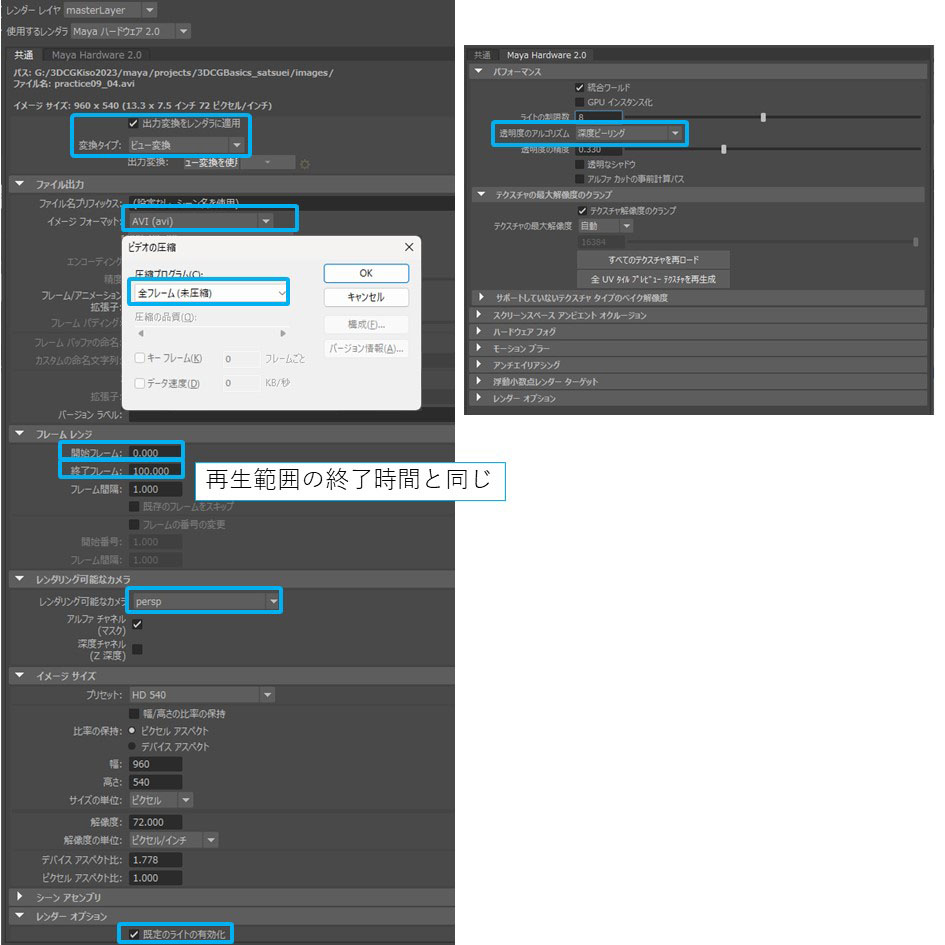
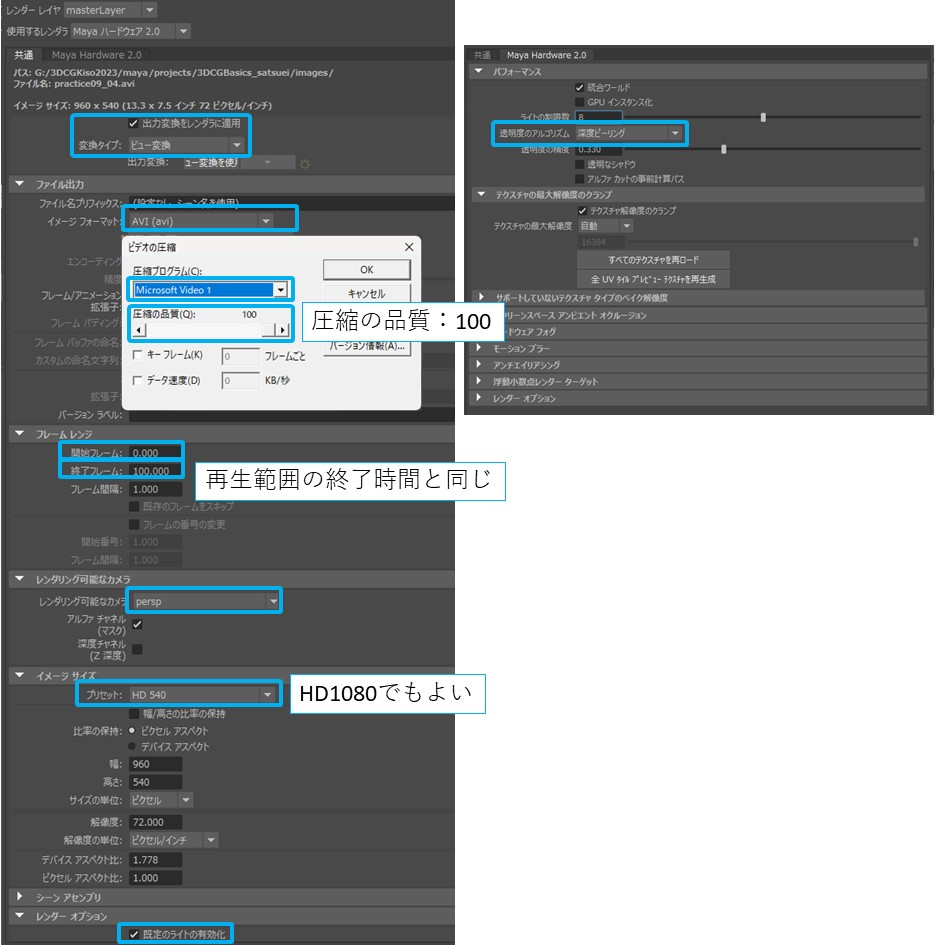
rende-settei

diff --git a/3DCG_Basics/3DCGBasics.html b/3DCG_Basics/3DCGBasics.html
@@ -655,7 +655,7 @@ header, .context-menu, .megamenu-content, footer{
 <img src="images/shelf_rigging_create_joint.png" referrerpolicy="no-referrer" alt="shelf_rigging_create_joint"></p></li><li><p><span>サイドビュー上でルートジョイントをクリックする．</span></p></li><li><p><span>アゴのジョイントを配置したい場所をクリックする．</span></p></li></ol><p><img src="images/add_joint_jaw.gif" referrerpolicy="no-referrer" alt="add_joint_jaw"></p><h4 id='アゴのジョイントをリネームする'><span>アゴのジョイントをリネームする．</span></h4><p><span>アウトライナから，ルートジョイントの下に生成されたアゴジョイントを分かりやすい名前に変更する．</span></p><p><img src="images/jaw_joint_rename.jpg" referrerpolicy="no-referrer" alt="jaw_joint_rename"></p><h3 id='アゴのジョイントをインフルエンスに追加する'><span>アゴのジョイントをインフルエンスに追加する．</span></h3><p><span>アゴのジョイントはまだポリゴンオブジェクトに影響を与えていない．</span>
 <span>インフルエンスの追加を行う必要がある．</span></p><ol start='' ><li><p><span>アウトライナから，アゴのジョイントと体のポリゴンオブジェクトを選択する．</span></p><p><img src="images/select_jaw_joint_body_plygon.png" referrerpolicy="no-referrer" alt="select_jaw_joint_body_plygon"></p></li><li><p><span>メインメニューから，スキン &gt; 影響を編集 &gt; インフルエンスの追加</span></p><p><img src="images/add_influence.jpg" referrerpolicy="no-referrer" alt="add_influence"></p></li></ol><h3 id='アゴジョイントのウェイトを編集する'><span>アゴジョイントのウェイトを編集する．</span></h3><ol start='' ><li><p><span>体のポリゴンオブジェクトを選択する．</span></p></li><li><p><span>ウェイトペイントツール設定から，インフルエンス &gt; アゴジョイントをクリックする．</span></p><p><img src="images/select_influence_jaw.jpg" referrerpolicy="no-referrer" alt="select_influence_jaw"></p></li><li><p><span>口の中等，漏れの無いように適切にウェイトペイントを行う．</span></p><p><span>ミラーも実行する．</span></p></li></ol><p><img src="images/jaw_weight_sakurei.png" referrerpolicy="no-referrer" alt="jaw_weight_sakurei"></p><p><img src="images/jaw_weight_preview.gif" referrerpolicy="no-referrer" alt="jaw_weight_preview"></p><h2 id='演習５魚のジョイントを追加胸ヒレ）'><span>演習５：魚のジョイントを追加（胸ヒレ）</span></h2><h3 id='胸ヒレのジョイントを追加する'><span>胸ヒレのジョイントを追加する．</span></h3><h4 id='左胸ヒレ用のジョイントチェーンを追加する'><span>左胸ヒレ用のジョイントチェーンを追加する．</span></h4><ol start='' ><li><p><span>いずれかの背骨ジョイントから繋げてジョイント作成を開始する．</span></p></li><li><p><span>２つのジョイントからなるジョイントチェーンを作成する．</span></p><ul><li><p><span>ヒレの付け根付近のジョイント</span></p><ul><li><p><span>ヒレの先端付近のジョイント</span></p></li></ul></li></ul><p><img src="images/chest_fin_joints.jpg" referrerpolicy="no-referrer" alt="chest_fin_joints"></p></li></ol><h4 id='左胸ヒレジョイントをリネームする'><span>左胸ヒレジョイントをリネームする．</span></h4><p><span>アウトライナから，生成された胸ヒレジョイントを分かりやすい名前に変更する．</span></p><p><img src="images/fin_chest_l_joint_rename.jpg" referrerpolicy="no-referrer" alt="fin_chest_l_joint_rename"></p><h3 id='胸ヒレジョイントの向きを調整する'><span>胸ヒレジョイントの向きを調整する．</span></h3><h4 id='ジョイントx軸を子へ向ける'><span>ジョイントX軸を子へ向ける．</span></h4><ol start='' ><li><p><span>ヒレの付け根のジョイントを選択する．</span></p></li><li><p><span>メインメニューから，スケルトン &gt; ジョイントの方向付け オプションをクリックする．</span></p><p><img src="images/joint_dir_set_option_open.jpg" referrerpolicy="no-referrer" alt="joint_dir_set_option_open"></p></li><li><p><span>以下のように設定する．</span></p><p><img src="images/joint_dir_set_option.png" referrerpolicy="no-referrer" alt="joint_dir_set_option"></p></li><li><p><span>ジョイントのX軸が子のジョイントの方向を向く．</span></p><p><img src="images/joint_dir_set_view.jpg" referrerpolicy="no-referrer" alt="joint_dir_set_view"></p></li></ol><h4 id='y軸ハンドルで制御できるよう回転を調整する'><span>Y軸ハンドルで制御できるよう回転を調整する．</span></h4><ul><li><p><span>Y軸ハンドル（緑色）１軸のみでアニメーションをさせる予定</span></p></li><li><p><span>Y軸ハンドルでアニメーションさせたい回転ができるようにする．</span></p></li><li><p><span>回転ツールを使い，ジョイントを回転させて調整する．</span></p></li><li><p><span>下図は調整後のY軸ハンドルでボーンを回転させた例</span></p><p><img src="images/chest_joint_test.gif" referrerpolicy="no-referrer" alt="chest_joint_test"></p></li></ul><h4 id='胸ヒレの付け根ジョイントのトランスフォームをフリーズする'><span>胸ヒレの付け根ジョイントのトランスフォームをフリーズする．</span></h4><p><span>ジョイントのトランスフォームのフリーズを行うと，回転のハンドルの角度はそのまま回転を0にすることができる．</span>
 <span>詳しくは，ジョイントの向きに値が流れる．</span></p><p><a href ="#transform_freeze"><span>トランスフォームのフリーズ</span></a></p><h3 id='胸ヒレジョイントをミラーする'><span>胸ヒレジョイントをミラーする．</span></h3><p><span>もう片方のジョイントをミラーで作成する．</span></p><ol start='' ><li><p><span>作成済み胸ヒレジョイントを選択する．</span></p></li><li><p><span>メインメニューから，スケルトン &gt; ジョイントのミラー オプション をクリックする．</span></p><p><span>初回のみ</span></p><p><img src="images/joint_mirror_option_open.jpg" referrerpolicy="no-referrer" alt="joint_mirror_option_open"></p></li><li><p><span>ジョイントのミラー オプション</span></p><p><span>ミラー平面：YZ</span></p><p><img src="images/joint_mirror_option.jpg" referrerpolicy="no-referrer" alt="joint_mirror_option"></p></li><li><p><span>ミラーをクリックする．</span></p></li><li><p><span>新たにジョイントが生成される．</span></p><p><span>こちらもリネームしてジョイントに名前を付ける．</span></p><p><img src="images/fin_chest_mirrored.png" referrerpolicy="no-referrer" alt="fin_chest_mirrored"></p></li></ol><h3 id='胸ヒレのジョイントをインフルエンスに追加する'><span>胸ヒレのジョイントをインフルエンスに追加する．</span></h3><p><span>アゴのジョイントと同様に，胸ヒレジョイントもインフルエンスの追加を行う必要がある．</span></p><p><span>左右のヒレを別々に分けて行う必要がある．</span></p><ol start='' ><li><p><span>アウトライナから，胸ヒレジョイント（の片方）と対応するヒレのポリゴンオブジェクトを選択する．</span></p><p><img src="images/select_fin_chest_l_joint_polygon.png" referrerpolicy="no-referrer" alt="select_fin_chest_l_joint_polygon"></p></li><li><p><span>メインメニューから，スキン &gt; 影響を編集 &gt; インフルエンスの追加</span></p><p><img src="images/add_influence.jpg" referrerpolicy="no-referrer" alt="add_influence"></p></li><li><p><span>もう片方の胸ヒレジョイントも以上と同様にインフルエンスの追加を行う．</span></p></li></ol><h3 id='胸ヒレのウェイトを編集する'><span>胸ヒレのウェイトを編集する．</span></h3><ul><li><p><span>基本的にはウェイトペイントは白で塗りつぶしでよい．</span></p></li><li><p><span>胸ヒレに複数のジョイントをバインドしたい場合は体と同様に複数ジョイントのウェイトを設定する必要がある．</span></p></li></ul><p><img src="images/fin_chest_weight_paint_fill.jpg" referrerpolicy="no-referrer" alt="fin_chest_weight_paint_fill"></p><h3 id='自主的にジョイントを増やしたい場合'><span>自主的にジョイントを増やしたい場合</span></h3><p><span>自信と時間の余裕があれば，本授業で行った範囲以外の部位を追加で動かしてもよい．</span></p><p><span>その場合，アゴや胸ヒレと同様に背骨のいずれかのジョイントを起点にジョイントを追加すること．</span></p><h1 id='第９回魚のループアニメーション'><span>第９回：魚のループアニメーション</span></h1><h2 id='演習１背骨の１つのジョイントの回転'><span>演習１：背骨の１つのジョイントの回転</span></h2><p><img src="images/loopanim_tail_1spain_start.gif" referrerpolicy="no-referrer" alt="loopanim_tail_1spain_start"></p><h3 id='アニメーションの下準備'><span>アニメーションの下準備</span></h3><h4 id='アニメーション時間を設定する-1'><span>アニメーション時間を設定する．</span></h4><ol start='' ><li><p><span>アニメーション時間（尾を左右に一往復させる時間）を決める．</span></p><p><span>魚によって変わる．ここでは150フレーム（5秒）とする．</span></p></li><li><p><span>レンジスライダから，</span></p><ul><li><p><span>アニメーション開始時間，再生範囲の開始時間に「0」を入力する．</span></p></li><li><p><span>再生範囲の終了時間，アニメーション終了時間に「150」を入力する．</span></p></li></ul><p><img src="images/time_slider_0_150.jpg" referrerpolicy="no-referrer" alt="time_slider_0_150"></p></li></ol><h3 id='回転0のキーを打つ'><span>回転0のキーを打つ．</span></h3><h4 id='キーフレームの打ち方'><span>キーフレームの打ち方</span></h4><p><span>オブジェクトを選択後に以下の操作を行う．</span></p><ol start='' ><li><p><span>タイムスライダをキーを打つフレームに動かす．</span></p></li><li><p><span>回転ツールでオブジェクトを回転する．</span></p></li><li><p><span>チャンネルボックスから，キーを打つトランスフォーム（移動／回転／スケール）を右クリックする．</span></p></li><li><p><span>選択項目のキー設定 をクリックする．</span></p><p><img src="images/fish_loopanim_bend_set_key.png" referrerpolicy="no-referrer" alt="fish_loopanim_bend_set_key"></p></li><li><p><span>キーを打つと下図のように赤いマーカーが表示される．</span></p><p><img src="images/keysrame_marker.jpg" referrerpolicy="no-referrer" alt="keysrame_marker"></p></li></ol><h4 id='回転無しで３つのキーフレームを打つ'><span>回転無しで３つのキーフレームを打つ．</span></h4><ol start='' ><li><p><span>アニメーションさせる最初のジョイントを選択する．</span></p><p><span>階層の上から下へキーを打っていくため，動かす予定の最上層のジョイントを選択する．</span></p><p><img src="images/anim_first_spine.jpg" referrerpolicy="no-referrer" alt="anim_first_spine"></p></li><li><p><span>回転ツールは使わず，３つのキーを打つ．</span></p><ul><li><p><span>フレーム番号：0（最初のフレーム）</span></p></li><li><p><span>フレーム番号：75（中間）</span></p></li><li><p><span>フレーム番号：0（最後のフレーム）</span></p></li></ul><p><img src="images/keyframes_rot0.jpg" referrerpolicy="no-referrer" alt="keyframes_rot0"></p></li></ol><h3 id='回転後のキーを打つ'><span>回転後のキーを打つ．</span></h3><p><span>背骨ジョイントを最大に曲げた状態用の２つのキーを打つ．</span>
-<span>回転ツールで大まかに回転し，端数を除いて整数値を入力するとよい．</span></p><ol start='' ><li><p><span>フレーム番号：37（1/4の箇所）</span></p><p><span>回転Y：11（任意の値）</span></p></li><li><p><span>フレーム番号：75（3/4の箇所）</span></p><p><span>回転Y：-11（任意の値のマイナス値）</span></p></li></ol><p><img src="images/keyframes_rot_max_min.jpg" referrerpolicy="no-referrer" alt="keyframes_rot_max_min"></p><h4 id='アニメーションキーの削除'><span>アニメーションキーの削除</span></h4><p><span>キーを削除したい場合は以下の方法で削除する．</span></p><p><span>まず，キーを削除するオブジェクトを選択する．</span></p><ol start='' ><li><p><span>タイムスライダをキーのあるフレームへ合わせ，右クリックする．</span></p></li><li><p><span>削除 をクリックする．</span></p></li></ol><p><img src="images/fish_loopanim_bend_delete_key.png" referrerpolicy="no-referrer" alt="fish_loopanim_bend_delete_key"></p><h2 id='演習２アニメーションを滑らかにループさせる'><span>演習２：アニメーションを滑らかにループさせる．</span></h2><p><img src="images/loopanim_tail_1spain_smooth.gif" referrerpolicy="no-referrer" alt="loopanim_tail_1spain_smooth"></p><h3 id='グラフエディタを開く'><span>グラフエディタを開く．</span></h3><p><span>メインメニューから，ウィンドウ &gt; アニメーション エディタ &gt; グラフエディタ</span></p><p><img src="images/graph_editor_open.jpg" referrerpolicy="no-referrer" alt="graph_editor_open"></p><h4 id='グラフエディタ'><span>グラフエディタ</span></h4><ul><li><p><span>アニメーションを詳細に編集できる．</span></p></li><li><p><span>キーが設定されたオブジェクトを選択する必要がある．</span></p></li></ul><p><img src="images/graph_editer.png" referrerpolicy="no-referrer" alt="graph_editer"></p><h4 id='シェルフへアイコンを追加する'><span>シェルフへアイコンを追加する．</span></h4><p><code>Ctrl</code><span> + </span><code>Shift</code><span> を押しながら左クリックする．</span></p><h3 id='グラフの接線を編集する'><span>グラフの接線を編集する．</span></h3><ol start='' ><li><p><span>演習１でキーを打った背骨ジョイントを選択する．</span></p></li><li><p><span>グラフエディタを開く．</span></p></li><li><p><span>キー（点）をクリックして接線ハンドルを表示する．</span></p></li><li><p><span>接線ハンドルをドラッグし，滑らかな（ほぼ）サインカーブにする．</span></p><p><img src="images/anim_graph_sesssen_nameraka.jpg" referrerpolicy="no-referrer" alt="anim_graph_sesssen_nameraka"></p></li></ol><h3 id='キー範囲外もサイクルを繰り返す'><span>キー範囲外もサイクルを繰り返す．</span></h3><p><span>キー範囲外もカーブが続くようにする．</span></p><ol start='' ><li><p><span>以下の二つのアイコンをクリックする．</span></p><ul><li><p><span>プリインフィニティをサイクル化</span></p></li><li><p><span>ポストインフィニティをサイクル化</span></p></li></ul><p><img src="images/graph_editer_cycle.png" referrerpolicy="no-referrer" alt="graph_editer_cycle"></p><p><img src="images/graph_editer_cycle_icon.png" referrerpolicy="no-referrer" alt="graph_editer_cycle_icon"></p></li><li><p><span>以下のようにキーを打っていない場所にもカーブが表示される．</span></p></li></ol><p><img src="images/graph_editor_infinity.png" referrerpolicy="no-referrer" alt="graph_editor_infinity"></p><h4 id='サイクルを解除する'><span>サイクルを解除する．</span></h4><ul><li><p><span>グラフエディタから，カーブ &gt; プリ インフィニティ &gt; 一定</span></p></li><li><p><span>グラフエディタから，カーブ &gt; ポスト インフィニティ &gt; 一定</span></p></li><li><p><span>ビュー &gt; インフィニティ のチェックを外す．</span></p></li></ul><h2 id='演習３他の背骨ジョイントにキーを複製する'><span>演習３：他の背骨ジョイントにキーを複製する．</span></h2><p><span>下の階層の他のジョイントにアニメーションキーを複製する．</span></p><p><img src="images/loopanim_tail_spains.gif" referrerpolicy="no-referrer" alt="loopanim_tail_spains"></p><h3 id='演習２までのキーをコピーする'><span>演習２までのキーをコピーする．</span></h3><ol start='' ><li><p><span>タイムスライダを0フレームに移動する．</span></p><p><span>これをしておかないと無駄なオフセットが入る．</span></p></li><li><p><span>コピーするジョイントを選択する．</span></p></li><li><p><span>メインメニューから，編集 &gt; キー &gt; キーのコピー</span></p><p><img src="images/spine_key_copy.jpg" referrerpolicy="no-referrer" alt="spine_key_copy"></p></li></ol><h3 id='下の階層の背骨ジョイントにキーをペーストする'><span>下の階層の背骨ジョイントにキーをペーストする．</span></h3><ol start='' ><li><p><span>ペースト先のジョイントを選択する．</span></p></li><li><p><span>メインメニューから，編集 &gt; キー &gt; キーのペースト</span></p></li></ol><p><a name="ryouiki_tool"></a></p><h3 id='アニメーションの回転値をスケールする'><span>アニメーションの回転値をスケールする．</span></h3><p><span>複数のキーフレームの回転値にまとめてスケールをかけることができる．</span></p><ol start='' ><li><p><span>グラフエディタを開く．</span></p></li><li><p><span>領域ツール を選択する．</span></p><p><img src="images/graph_editor_ryouiki_tool.jpg" referrerpolicy="no-referrer" alt="graph_editor_ryouiki_tool"></p></li><li><p><span>全てのキーフレームを範囲選択する．</span></p></li><li><p><span>白い▢をドラッグし，スケールを変更する．</span></p><p><img src="images/graph_editor_ryouiki_scale_y.gif" referrerpolicy="no-referrer" alt="graph_editor_ryouiki_scale_y"></p></li><li><p><span>値スナップをオンにする．</span></p><p><span>これを行わないと次のステップできれいに位置を揃えられない．</span></p><p><img src="images/graph_editor_value_snap.jpg" referrerpolicy="no-referrer" alt="graph_editor_value_snap"></p></li><li><p><span>カーブの中間値が0になるよう上下の位置を整える．</span></p><p><img src="images/graph_editor_ryouiki_adjust_y.gif" referrerpolicy="no-referrer" alt="graph_editor_ryouiki_adjust_y"></p></li></ol><h4 id='キー移動ツール-1'><span>キー移動ツール</span></h4><p><span>デフォルトのツールに戻す場合は以下の方法でキー移動ツールに切り替えるとよい．</span></p><p><span>編集 &gt; トランスフォーム ツール &gt; キー移動ツール</span></p><p><img src="images/graph_editer_key_move_tool.png" referrerpolicy="no-referrer" alt="graph_editer_key_move_tool"></p><h3 id='必要な分だけキー複製を繰り返す'><span>必要な分だけキー複製を繰り返す．</span></h3><ul><li><p><span>さらに下の階層の背骨ジョイントにもキー複製を行う．</span></p></li><li><p><span>2～3個の背骨ジョイントが動いていれば十分なはず．</span></p></li></ul><h2 id='演習４全背骨ジョイントのキーを同時編集する'><span>演習４：全背骨ジョイントのキーを同時編集する．</span></h2><p><span>尾ヒレを振るアニメーションの仕上げとして，全ての背骨ジョイント（キーがある）のアニメーションカーブにスケールをかけて仕上げる．</span></p><p><img src="images/loopanim_tail_spains_fix.gif" referrerpolicy="no-referrer" alt="loopanim_tail_spains_fix"></p><h3 id='複数のジョイントを選択してグラフエディタを開く'><span>複数のジョイントを選択してグラフエディタを開く．</span></h3><ol start='' ><li><p><span>演習３でキーを打ったすべてのジョイントを選択する．</span></p></li><li><p><span>グラフエディタを開く．</span></p><p><span>下図のように全てのカーブが同時に表示される．</span></p><p><img src="images/graph_editor_select_all_spines.png" referrerpolicy="no-referrer" alt="graph_editor_select_all_spines"></p></li></ol><h3 id='複数のグラフを同時編集する'><span>複数のグラフを同時編集する．</span></h3><ol start='' ><li><p><span>全てのカーブを範囲選択し，</span><a href="#ryouiki_tool"><span>領域ツールを使用する．</span></a></p></li><li><p><span>領域をスケールする．</span></p><p><img src="images/graph_editor_ryouiki_scale_spines.gif" referrerpolicy="no-referrer" alt="graph_editor_ryouiki_scale_spines"></p></li></ol><h3 id='サイクルの再生時間を変える'><span>サイクルの再生時間を変える．</span></h3><p><span>アニメーション時間を変更したい場合，グラフエディタから以下のようなやり方で行う．</span></p><ol start='' ><li><p><span>カーブの横幅（時間軸方向）にスケールをかける．</span></p><p><img src="images/graph_editor_ryouiki_scale_spines_time.gif" referrerpolicy="no-referrer" alt="graph_editor_ryouiki_scale_spines_time"></p></li><li><p><span>再生終了時間を終端のキーに合わせる．</span></p><p><span>グラフエディタ右上部の黑いフラッグを動かすことで再生終了時間を変更できる．</span></p><p><img src="images/graph_editor_play_time_end_move.gif" referrerpolicy="no-referrer" alt="graph_editor_play_time_end_move"></p></li></ol><h2 id='演習５魚の口のアニメーション'><span>演習５：魚の口のアニメーション</span></h2><p><img src="images/loopanim_jaw_fix.gif" referrerpolicy="no-referrer" alt="loopanim_jaw_fix"></p><ul><li><p><span>基本的な流れは演習１～２と同じ．</span></p><ol start='' ><li><p><span>下あごジョイントにキーを打つ．</span></p></li><li><p><span>下あごアニメーションのグラフを編集する．</span></p></li></ol></li><li><p><span>各自自主的に作業にとりかかること．</span></p></li><li><p><span>おそらく回転軸がYではなくZである点に留意．</span></p></li></ul><h2 id='演習６胸ヒレのアニメーション'><span>演習６：胸ヒレのアニメーション</span></h2><h3 id='左胸ヒレにアニメーションをつける'><span>左胸ヒレにアニメーションをつける．</span></h3><p><img src="images/loopanim_chest_l.gif" referrerpolicy="no-referrer" alt="loopanim_chest_l"></p><p><span>基本的な流れは演習１～２と同じ．</span></p><ol start='' ><li><p><span>左胸ヒレジョイントにキーを打つ．</span></p></li><li><p><span>左胸ヒレアニメーションのグラフを編集する．</span></p></li></ol><h3 id='右胸ヒレにキーを複製する'><span>右胸ヒレにキーを複製する．</span></h3><p><span>基本的には演習３と同様にキーを複製すればよい．</span></p><ol start='' ><li><p><span>タイムスライダを0フレームに移動する．</span></p></li><li><p><span>左胸ヒレジョイントを選択する．</span></p></li><li><p><span>メインメニューから，編集 &gt; キー &gt; キーのコピー</span></p></li><li><p><strong><span>右</span></strong><span>胸ヒレジョイントを選択する．</span></p></li><li><p><span>メインメニューから，編集 &gt; キー &gt; キーのペースト</span></p></li></ol><h4 id='アニメーションの反転'><span>アニメーションの反転</span></h4><p><span>ミラー後にアニメーションが反転してしまっている場合，さらにアニメーションを反転させて補正する必要がある．</span></p><ol start='' ><li><p><span>右胸ヒレオブジェクトを選択する．</span></p></li><li><p><span>グラフエディタを開く．</span></p></li><li><p><span>全てのキーを範囲選択する．</span></p></li><li><p><span>以下のように左上の入力欄に</span><code>*=-1</code><span>を入力する．</span></p><p><img src="images/graph_editer_curve_mirror.png" referrerpolicy="no-referrer" alt="graph_editer_curve_mirror"></p></li><li><p><span>接線を整える．</span></p><p><span>接線は反転されないので，手作業で整える必要がある．</span></p></li></ol><h3 id='全体より短い周期のループアニメの設定'><span>全体より短い周期のループアニメの設定</span></h3><p><span>他の部位のアニメーションと比べて短い周期でアニメーションさせたい場合，アニメーショングラフを時間方向に圧縮する．</span></p><ol start='' ><li><p><span>領域ツールを使って時間方向にスケールをかける．</span><img src="images/graph_editor_ryouiki_scale_2times.gif" referrerpolicy="no-referrer" alt="graph_editor_ryouiki_scale_2times"></p></li><li><p><span>周期を短くしたい場合，下図のようにする．</span></p><p><span>カーブの右端が終了フレームと重なるようにスケールを調整する必要がある．</span></p><p><img src="images/graph_editor_cycle_2times.png" referrerpolicy="no-referrer" alt="graph_editor_cycle_2times"></p></li></ol><h2 id='演習７ループアニメの書き出し'><span>演習７：ループアニメの書き出し</span></h2><h3 id='レンダー設定ループアニメ用）'><span>レンダー設定（ループアニメ用）</span></h3><ol start='' ><li><p><span>レンダー設定を開く</span></p><p><span>ステータスラインから，下図のフィルム＆歯車アイコンをクリックする．</span></p><p><img src="images/status_line_render_setting.png" referrerpolicy="no-referrer" alt="status_line_render_setting"></p></li><li><p><span>使用するレンダラ：Maya ハードウェア2.0</span></p></li><li><p><span>レンダー設定</span></p><ul><li><p><span>カラー管理</span></p><ul><li><p><span>出力変換をレンダラに適用 にチェック</span></p></li><li><p><span>変換タイプ：ビュー変換</span></p></li></ul></li><li><p><span>ファイル出力</span></p><ul><li><p><span>イメージフォーマット：AVI</span></p><ul><li><p><span>※Macの場合はQuicktime(Mov)形式</span></p></li></ul></li><li><p><span>圧縮：全フレーム（未圧縮）</span></p></li><li><p><span>圧縮の品質：100</span></p></li></ul></li><li><p><span>フレームレンジ</span></p><ul><li><p><span>開始フレーム：1</span></p></li><li><p><span>終了フレーム：</span><strong><span>再生終了時間を入力する．</span></strong></p></li></ul></li><li><p><span>レンダリング可能なカメラ：persp</span></p></li><li><p><span>イメージサイズ</span></p><ul><li><p><span>任意</span></p></li></ul></li><li><p><span>レンダーオプション</span></p><ul><li><p><span>既定のライトの有効化 にチェック</span></p></li></ul></li></ul></li></ol><ul><li><p><span>Maya Hardware 2.0（下図の右）</span></p><ul><li><p><span>透明度のアルゴリズム：深度ピーリング</span></p></li></ul></li></ul><p><img src="images/render_setting_loopanim.jpg" referrerpolicy="no-referrer" alt="render_setting_loopanim"></p><h3 id='バッチレンダーでレンダリングを開始する-2'><span>バッチレンダーでレンダリングを開始する．</span></h3><ol start='' ><li><p><span>シェルフ「レンダリング」のバッチレンダーアイコンをクリックする．</span><img src="images/shelf_batch_render.png" referrerpolicy="no-referrer" alt="shelf_batch_render"><span>レンダリングが終わるまで待つ．</span></p></li><li><p><span>下図のメッセージが表示されたら終了．</span><img src="images/batch_render_finish.png" referrerpolicy="no-referrer" alt="batch_render_finish"></p></li><li><p><span>動画ファイルを確認する．</span>
+<span>回転ツールで大まかに回転し，端数を除いて整数値を入力するとよい．</span></p><ol start='' ><li><p><span>フレーム番号：37（1/4の箇所）</span></p><p><span>回転Y：11（任意の値）</span></p></li><li><p><span>フレーム番号：75（3/4の箇所）</span></p><p><span>回転Y：-11（任意の値のマイナス値）</span></p></li></ol><p><img src="images/keyframes_rot_max_min.jpg" referrerpolicy="no-referrer" alt="keyframes_rot_max_min"></p><h4 id='アニメーションキーの削除'><span>アニメーションキーの削除</span></h4><p><span>キーを削除したい場合は以下の方法で削除する．</span></p><p><span>まず，キーを削除するオブジェクトを選択する．</span></p><ol start='' ><li><p><span>タイムスライダをキーのあるフレームへ合わせ，右クリックする．</span></p></li><li><p><span>削除 をクリックする．</span></p></li></ol><p><img src="images/fish_loopanim_bend_delete_key.png" referrerpolicy="no-referrer" alt="fish_loopanim_bend_delete_key"></p><h2 id='演習２アニメーションを滑らかにループさせる'><span>演習２：アニメーションを滑らかにループさせる．</span></h2><p><img src="images/loopanim_tail_1spain_smooth.gif" referrerpolicy="no-referrer" alt="loopanim_tail_1spain_smooth"></p><h3 id='グラフエディタを開く'><span>グラフエディタを開く．</span></h3><p><span>メインメニューから，ウィンドウ &gt; アニメーション エディタ &gt; グラフエディタ</span></p><p><img src="images/graph_editor_open.jpg" referrerpolicy="no-referrer" alt="graph_editor_open"></p><h4 id='グラフエディタ'><span>グラフエディタ</span></h4><ul><li><p><span>アニメーションを詳細に編集できる．</span></p></li><li><p><span>キーが設定されたオブジェクトを選択する必要がある．</span></p></li></ul><p><img src="images/graph_editer.png" referrerpolicy="no-referrer" alt="graph_editer"></p><h4 id='シェルフへアイコンを追加する'><span>シェルフへアイコンを追加する．</span></h4><p><code>Ctrl</code><span> + </span><code>Shift</code><span> を押しながら左クリックする．</span></p><h3 id='グラフの接線を編集する'><span>グラフの接線を編集する．</span></h3><ol start='' ><li><p><span>演習１でキーを打った背骨ジョイントを選択する．</span></p></li><li><p><span>グラフエディタを開く．</span></p></li><li><p><span>キー（点）をクリックして接線ハンドルを表示する．</span></p></li><li><p><span>接線ハンドルをドラッグし，滑らかな（ほぼ）サインカーブにする．</span></p><p><img src="images/anim_graph_sesssen_nameraka.jpg" referrerpolicy="no-referrer" alt="anim_graph_sesssen_nameraka"></p></li></ol><h3 id='キー範囲外もサイクルを繰り返す'><span>キー範囲外もサイクルを繰り返す．</span></h3><p><span>キー範囲外もカーブが続くようにする．</span></p><ol start='' ><li><p><span>以下の二つのアイコンをクリックする．</span></p><ul><li><p><span>プリインフィニティをサイクル化</span></p></li><li><p><span>ポストインフィニティをサイクル化</span></p></li></ul><p><img src="images/graph_editer_cycle.png" referrerpolicy="no-referrer" alt="graph_editer_cycle"></p><p><img src="images/graph_editer_cycle_icon.png" referrerpolicy="no-referrer" alt="graph_editer_cycle_icon"></p></li><li><p><span>以下のようにキーを打っていない場所にもカーブが表示される．</span></p></li></ol><p><img src="images/graph_editor_infinity.png" referrerpolicy="no-referrer" alt="graph_editor_infinity"></p><h4 id='サイクルを解除する'><span>サイクルを解除する．</span></h4><ul><li><p><span>グラフエディタから，カーブ &gt; プリ インフィニティ &gt; 一定</span></p></li><li><p><span>グラフエディタから，カーブ &gt; ポスト インフィニティ &gt; 一定</span></p></li><li><p><span>ビュー &gt; インフィニティ のチェックを外す．</span></p></li></ul><h2 id='演習３他の背骨ジョイントにキーを複製する'><span>演習３：他の背骨ジョイントにキーを複製する．</span></h2><p><span>下の階層の他のジョイントにアニメーションキーを複製する．</span></p><p><img src="images/loopanim_tail_spains.gif" referrerpolicy="no-referrer" alt="loopanim_tail_spains"></p><h3 id='演習２までのキーをコピーする'><span>演習２までのキーをコピーする．</span></h3><ol start='' ><li><p><span>タイムスライダを0フレームに移動する．</span></p><p><span>これをしておかないと無駄なオフセットが入る．</span></p></li><li><p><span>コピーするジョイントを選択する．</span></p></li><li><p><span>メインメニューから，編集 &gt; キー &gt; キーのコピー</span></p><p><img src="images/spine_key_copy.jpg" referrerpolicy="no-referrer" alt="spine_key_copy"></p></li></ol><h3 id='下の階層の背骨ジョイントにキーをペーストする'><span>下の階層の背骨ジョイントにキーをペーストする．</span></h3><ol start='' ><li><p><span>ペースト先のジョイントを選択する．</span></p></li><li><p><span>メインメニューから，編集 &gt; キー &gt; キーのペースト</span></p></li></ol><p><a name="ryouiki_tool"></a></p><h3 id='アニメーションの回転値をスケールする'><span>アニメーションの回転値をスケールする．</span></h3><p><span>複数のキーフレームの回転値にまとめてスケールをかけることができる．</span></p><ol start='' ><li><p><span>グラフエディタを開く．</span></p></li><li><p><span>領域ツール を選択する．</span></p><p><img src="images/graph_editor_ryouiki_tool.jpg" referrerpolicy="no-referrer" alt="graph_editor_ryouiki_tool"></p></li><li><p><span>全てのキーフレームを範囲選択する．</span></p></li><li><p><span>白い▢をドラッグし，スケールを変更する．</span></p><p><img src="images/graph_editor_ryouiki_scale_y.gif" referrerpolicy="no-referrer" alt="graph_editor_ryouiki_scale_y"></p></li><li><p><span>値スナップをオンにする．</span></p><p><span>これを行わないと次のステップできれいに位置を揃えられない．</span></p><p><img src="images/graph_editor_value_snap.jpg" referrerpolicy="no-referrer" alt="graph_editor_value_snap"></p></li><li><p><span>カーブの中間値が0になるよう上下の位置を整える．</span></p><p><img src="images/graph_editor_ryouiki_adjust_y.gif" referrerpolicy="no-referrer" alt="graph_editor_ryouiki_adjust_y"></p></li></ol><h4 id='キー移動ツール-1'><span>キー移動ツール</span></h4><p><span>デフォルトのツールに戻す場合は以下の方法でキー移動ツールに切り替えるとよい．</span></p><p><span>編集 &gt; トランスフォーム ツール &gt; キー移動ツール</span></p><p><img src="images/graph_editer_key_move_tool.png" referrerpolicy="no-referrer" alt="graph_editer_key_move_tool"></p><h3 id='必要な分だけキー複製を繰り返す'><span>必要な分だけキー複製を繰り返す．</span></h3><ul><li><p><span>さらに下の階層の背骨ジョイントにもキー複製を行う．</span></p></li><li><p><span>2～3個の背骨ジョイントが動いていれば十分なはず．</span></p></li></ul><h2 id='演習４全背骨ジョイントのキーを同時編集する'><span>演習４：全背骨ジョイントのキーを同時編集する．</span></h2><p><span>尾ヒレを振るアニメーションの仕上げとして，全ての背骨ジョイント（キーがある）のアニメーションカーブにスケールをかけて仕上げる．</span></p><p><img src="images/loopanim_tail_spains_fix.gif" referrerpolicy="no-referrer" alt="loopanim_tail_spains_fix"></p><h3 id='複数のジョイントを選択してグラフエディタを開く'><span>複数のジョイントを選択してグラフエディタを開く．</span></h3><ol start='' ><li><p><span>演習３でキーを打ったすべてのジョイントを選択する．</span></p></li><li><p><span>グラフエディタを開く．</span></p><p><span>下図のように全てのカーブが同時に表示される．</span></p><p><img src="images/graph_editor_select_all_spines.png" referrerpolicy="no-referrer" alt="graph_editor_select_all_spines"></p></li></ol><h3 id='複数のグラフを同時編集する'><span>複数のグラフを同時編集する．</span></h3><ol start='' ><li><p><span>全てのカーブを範囲選択し，</span><a href="#ryouiki_tool"><span>領域ツールを使用する．</span></a></p></li><li><p><span>領域をスケールする．</span></p><p><img src="images/graph_editor_ryouiki_scale_spines.gif" referrerpolicy="no-referrer" alt="graph_editor_ryouiki_scale_spines"></p></li></ol><h3 id='サイクルの再生時間を変える'><span>サイクルの再生時間を変える．</span></h3><p><span>アニメーション時間を変更したい場合，グラフエディタから以下のようなやり方で行う．</span></p><ol start='' ><li><p><span>カーブの横幅（時間軸方向）にスケールをかける．</span></p><p><img src="images/graph_editor_ryouiki_scale_spines_time.gif" referrerpolicy="no-referrer" alt="graph_editor_ryouiki_scale_spines_time"></p></li><li><p><span>再生終了時間を終端のキーに合わせる．</span></p><p><span>グラフエディタ右上部の黑いフラッグを動かすことで再生終了時間を変更できる．</span></p><p><img src="images/graph_editor_play_time_end_move.gif" referrerpolicy="no-referrer" alt="graph_editor_play_time_end_move"></p></li></ol><h2 id='演習５魚の口のアニメーション'><span>演習５：魚の口のアニメーション</span></h2><p><img src="images/loopanim_jaw_fix.gif" referrerpolicy="no-referrer" alt="loopanim_jaw_fix"></p><ul><li><p><span>基本的な流れは演習１～２と同じ．</span></p><ol start='' ><li><p><span>下あごジョイントにキーを打つ．</span></p></li><li><p><span>下あごアニメーションのグラフを編集する．</span></p></li></ol></li><li><p><span>各自自主的に作業にとりかかること．</span></p></li><li><p><span>おそらく回転軸がYではなくZである点に留意．</span></p></li></ul><h2 id='演習６胸ヒレのアニメーション'><span>演習６：胸ヒレのアニメーション</span></h2><h3 id='左胸ヒレにアニメーションをつける'><span>左胸ヒレにアニメーションをつける．</span></h3><p><img src="images/loopanim_chest_l.gif" referrerpolicy="no-referrer" alt="loopanim_chest_l"></p><p><span>基本的な流れは演習１～２と同じ．</span></p><ol start='' ><li><p><span>左胸ヒレジョイントにキーを打つ．</span></p></li><li><p><span>左胸ヒレアニメーションのグラフを編集する．</span></p></li></ol><h3 id='右胸ヒレにキーを複製する'><span>右胸ヒレにキーを複製する．</span></h3><p><span>基本的には演習３と同様にキーを複製すればよい．</span></p><ol start='' ><li><p><span>タイムスライダを0フレームに移動する．</span></p></li><li><p><span>左胸ヒレジョイントを選択する．</span></p></li><li><p><span>メインメニューから，編集 &gt; キー &gt; キーのコピー</span></p></li><li><p><strong><span>右</span></strong><span>胸ヒレジョイントを選択する．</span></p></li><li><p><span>メインメニューから，編集 &gt; キー &gt; キーのペースト</span></p></li></ol><h4 id='アニメーションの反転'><span>アニメーションの反転</span></h4><p><span>ミラー後にアニメーションが反転してしまっている場合，さらにアニメーションを反転させて補正する必要がある．</span></p><ol start='' ><li><p><span>右胸ヒレオブジェクトを選択する．</span></p></li><li><p><span>グラフエディタを開く．</span></p></li><li><p><span>全てのキーを範囲選択する．</span></p></li><li><p><span>以下のように左上の入力欄に</span><code>*=-1</code><span>を入力する．</span></p><p><img src="images/graph_editer_curve_mirror.png" referrerpolicy="no-referrer" alt="graph_editer_curve_mirror"></p></li><li><p><span>接線を整える．</span></p><p><span>接線は反転されないので，手作業で整える必要がある．</span></p></li></ol><h3 id='全体より短い周期のループアニメの設定'><span>全体より短い周期のループアニメの設定</span></h3><p><span>他の部位のアニメーションと比べて短い周期でアニメーションさせたい場合，アニメーショングラフを時間方向に圧縮する．</span></p><ol start='' ><li><p><span>領域ツールを使って時間方向にスケールをかける．</span><img src="images/graph_editor_ryouiki_scale_2times.gif" referrerpolicy="no-referrer" alt="graph_editor_ryouiki_scale_2times"></p></li><li><p><span>周期を短くしたい場合，下図のようにする．</span></p><p><span>カーブの右端が終了フレームと重なるようにスケールを調整する必要がある．</span></p><p><img src="images/graph_editor_cycle_2times.png" referrerpolicy="no-referrer" alt="graph_editor_cycle_2times"></p></li></ol><h2 id='演習７ループアニメの書き出し'><span>演習７：ループアニメの書き出し</span></h2><h3 id='レンダー設定ループアニメ用）'><span>レンダー設定（ループアニメ用）</span></h3><ol start='' ><li><p><span>レンダー設定を開く</span></p><p><span>ステータスラインから，下図のフィルム＆歯車アイコンをクリックする．</span></p><p><img src="images/status_line_render_setting.png" referrerpolicy="no-referrer" alt="status_line_render_setting"></p></li><li><p><span>使用するレンダラ：Maya ハードウェア2.0</span></p></li><li><p><span>レンダー設定</span></p><ul><li><p><span>カラー管理</span></p><ul><li><p><span>出力変換をレンダラに適用 にチェック</span></p></li><li><p><span>変換タイプ：ビュー変換</span></p></li></ul></li><li><p><span>ファイル出力</span></p><ul><li><p><span>イメージフォーマット：AVI</span></p><ul><li><p><span>※Macの場合はQuicktime(Mov)形式</span></p></li></ul></li><li><p><span>圧縮プログラム：Microsoft Video 1</span></p></li><li><p><span>圧縮の品質：100</span></p></li></ul></li><li><p><span>フレームレンジ</span></p><ul><li><p><span>開始フレーム：0</span></p></li><li><p><span>終了フレーム：</span><strong><span>再生終了フレームを入力</span></strong></p></li></ul></li><li><p><span>レンダリング可能なカメラ：persp</span></p></li><li><p><span>イメージサイズ</span></p><ul><li><p><span>任意</span></p></li></ul></li><li><p><span>レンダーオプション</span></p><ul><li><p><span>既定のライトの有効化 にチェック</span></p></li></ul></li></ul></li></ol><ul><li><p><span>Maya Hardware 2.0（下図の右）</span></p><ul><li><p><span>透明度のアルゴリズム：深度ピーリング</span></p></li></ul></li></ul><p><img src="images/render_setting_loopanim.jpg" referrerpolicy="no-referrer" alt="render_setting_loopanim"></p><h3 id='バッチレンダーでレンダリングを開始する-2'><span>バッチレンダーでレンダリングを開始する．</span></h3><ol start='' ><li><p><span>シェルフ「レンダリング」のバッチレンダーアイコンをクリックする．</span><img src="images/shelf_batch_render.png" referrerpolicy="no-referrer" alt="shelf_batch_render"><span>レンダリングが終わるまで待つ．</span></p></li><li><p><span>下図のメッセージが表示されたら終了．</span><img src="images/batch_render_finish.png" referrerpolicy="no-referrer" alt="batch_render_finish"></p></li><li><p><span>動画ファイルを確認する．</span>
 <span>下図のフォルダにファイルが作成される．</span></p></li></ol><p><img src="images/batch_render_finish_file_.jpg" referrerpolicy="no-referrer" alt="batch_render_finish_file_"></p><h3 id='動画を確認する-2'><span>動画を確認する．</span></h3><p><span>ファイルサイズが大きいので，VLCプレイヤーを使うのが無難</span></p><h1 id='課題２魚のループアニメーション'><span>課題２：魚のループアニメーション</span></h1><h2 id='作例-2'><span>作例</span></h2><p><img src="images/kadai2_sakurei.gif" referrerpolicy="no-referrer" alt="kadai2_sakurei"></p><h2 id='概要-2'><span>概要</span></h2><p><span>第９回まで作成した魚のループアニメーションのレンダリング済み動画を提出する．</span>
 <span>レンダリング結果から，一番良いと思うものを一つ提出する．</span></p><h2 id='条件-3'><span>条件</span></h2><ul><li><p><span>構図は課題１と同様でよい．</span></p></li><li><p><span>Teamsの「課題２：魚のループアニメーション」の提出フォームからアップロードすること．</span></p></li><li><p><span>ファイル形式：</span><strong><span>avi</span></strong><span>，mov</span></p></li><li><p><span>ファイル名は「 K2</span><span>_</span><span>【クラス】【クラス番号】</span><span>_</span><span>【苗字】.avi」として提出すること．</span></p><ul><li><p><span>例</span></p><ul><li><p><span>K2</span><span>_</span><span>A8</span><span>_</span><span>satou.avi</span></p></li><li><p><span>K2</span><span>_</span><span>B12</span><span>_</span><span>takahashi.avi</span></p></li><li><p><span>K2</span><span>_</span><span>D20</span><span>_</span><span>itou.avi</span></p></li></ul></li></ul></li><li><p><span>提出期限はTeamsの課題ページを参照のこと．</span></p></li></ul><h1 id='第１０回水中の環境モデリング'><span>第１０回：水中の環境モデリング</span></h1><h2 id='演習１水底地面）を作る'><span>演習１：水底（地面）を作る．</span></h2><p><img src="images/ground_material.png" referrerpolicy="no-referrer" alt="ground_material"></p><h3 id='テクスチャ入手'><span>テクスチャ入手</span></h3><p><a href='https://hdrihaven.com/' target='_blank' class='url'>https://hdrihaven.com/</a><span> などで入手可能．</span></p><ul><li><p><span>サイズ：4K </span></p></li><li><p><span>種類</span></p><ul><li><p><span>カラー用（diff）</span></p></li><li><p><span>ノーマル用（nor）</span></p></li></ul></li></ul><h3 id='アニメーション環境再設定-1'><span>アニメーション環境再設定</span></h3><ul><li><p><span>フレームレートを再度30fpsへ</span></p></li><li><p><span>再生範囲 ループアニメの倍数で600~秒程度を目安</span></p></li></ul><h3 id='地面となるポリゴンプレーン平面）を配置する'><span>地面となるポリゴンプレーン（平面）を配置する．</span></h3><ol start='' ><li><p><span>シェルフ「ポリゴンのモデリング」から，ポリゴンプレーンの作成 アイコンをダブルクリックする．</span></p></li><li><p><span>ポリゴンのモデリング オプション</span></p><ul><li><p><span>幅：400（4m）</span></p></li><li><p><span>高さ：400（4m）</span></p></li><li><p><span>幅の分割数：100</span></p></li><li><p><span>高さの分割数：100</span></p></li></ul></li></ol><p><img src="images/ground_plane.png" referrerpolicy="no-referrer" alt="ground_plane"></p><h3 id='起伏を作る'><span>起伏を作る．</span></h3><p><span>ジオメトリスカルプトツールを使って自由に起伏をつける．</span></p><p><img src="images/geometry_scrupt_tool.gif" referrerpolicy="no-referrer" alt="geometry_scrupt_tool"></p><h4 id='ジオメトリスカルプトツール'><span>ジオメトリスカルプトツール</span></h4><ol start='' ><li><p><span>メインメニュー「モデリング」から，サーフェス &gt; ジオメトリスカルプトツール をクリックする．</span></p><p><img src="images/shelf_geometry_sculpt_tool.png" referrerpolicy="no-referrer" alt="shelf_geometry_sculpt_tool"></p></li><li><p><span>ツール設定（必須）</span></p><p><span>基準ベクトル：Y軸</span></p><p><img src="images/geometry_sculpt_tool_vector.png" referrerpolicy="no-referrer" alt="geometry_sculpt_tool_vector"></p></li><li><p><span>ツール設定（任意）</span></p><ul><li><p><span>操作：押し込みや引き出し，スムーズ等を切り替える．</span></p></li><li><p><span>最大ディスプレイメント：押し込み／引き出しの量</span></p></li></ul><p><img src="images/geometry_sculpt_tool_util.png" referrerpolicy="no-referrer" alt="geometry_sculpt_tool_util"></p></li></ol><h3 id='地面用マテリアルを作成する'><span>地面用マテリアルを作成する．</span></h3><ol start='' ><li><p><span>マテリアルを作成する．</span></p><ul><li><p><span>Blinn シェーダ</span></p></li></ul></li><li><p><span>ダウンロードした２つのテクスチャをMayaにインポートする．</span></p></li><li><p><span>マテリアルにテクスチャを割り当てる．</span></p><ul><li><p><span>カラー（diff）</span></p></li><li><p><span>ノーマル（nor）</span></p></li></ul></li></ol><p><img src="images/ground_material.png" referrerpolicy="no-referrer" alt="ground_material"></p><h2 id='演習２水中の背景を作る'><span>演習２：水中の背景を作る．</span></h2><p><img src="images/sky_sphere.png" referrerpolicy="no-referrer" alt="sky_sphere"></p><h3 id='ポリゴン球の作成'><span>ポリゴン球の作成</span></h3><p><span>ポリゴン球でシーン全体を覆う．</span></p><ol start='' ><li><p><span>シェルフ「ポリゴンのモデリング」から，ポリゴン球の作成 をダブルクリックする．</span></p><p><img src="images/shelf_polygon_sphere.png" referrerpolicy="no-referrer" alt="shelf_polygon_sphere"></p></li><li><p><span>ポリゴン球オプション</span></p><p><img src="images/bg_sphere_option.png" referrerpolicy="no-referrer" alt="bg_sphere_option"></p></li></ol><p><img src="images/sky_sphere_create.png" referrerpolicy="no-referrer" alt="sky_sphere_create"></p><h3 id='ポリゴン球設定'><span>ポリゴン球設定</span></h3><p><span>背景用の特殊なオブジェクトであるため，レンダリング詳細を変更する．</span></p><ol start='' ><li><p><span>ポリゴン球を選択する．</span></p></li><li><p><a href="#attribute_editer"><span>アトリビュートエディタ</span></a><span>から，レンダリング詳細を変更する．</span></p><ul><li><p><span>シャドウの投影 をOFF</span></p></li><li><p><span>シャドウの受像 をOFF</span></p></li><li><p><span>両面 をOFF</span></p></li><li><p><span>法線の反転 をON </span></p></li></ul><p><img src="images/bg_sphere_attr_editer_render_detail.png" referrerpolicy="no-referrer" alt="bg_sphere_attr_editer_render_detail"></p></li></ol><h3 id='背景テクスチャ作成'><span>背景テクスチャ作成</span></h3><p><span>背景色のグラデーションをランプテクスチャで作成する．</span></p><ol start='' ><li><p><a href="#hyper_shade"><span>ハイパーシェードウィンドウ</span></a><span>を開く．</span></p></li><li><p><span>作成から，2D テクスチャ &gt; ランプ</span></p><p><img src="images/texture_ramp.jpg" referrerpolicy="no-referrer" alt="texture_ramp"></p></li><li><p><span>プロパティーエディタなどからグラデーションを編集する．</span></p><p><span>←深い　浅い→</span></p><p><img src="images/texture_ramp_graduation.jpg" referrerpolicy="no-referrer" alt="texture_ramp_graduation"></p></li></ol><h3 id='ポリゴン球用マテリアル'><span>ポリゴン球用マテリアル</span></h3><p><span>スぺキュラ等が不要なため，Lambert シェーダを使用する．</span></p><ol start='' ><li><p><span>マテリアルの作成</span></p><ul><li><p><span>サーフェス &gt; Lambert シェーダ</span></p></li></ul><p><img src="images/material_lambert_create.png" referrerpolicy="no-referrer" alt="material_lambert_create"></p></li><li><p><span>マテリアルにランプテクスチャを適用する．</span></p><ul><li><p><span>colorのみ</span></p></li></ul></li><li><p><span>マテリアルを選択し，以下２か所のアトリビュートを編集する．</span></p><ul><li><p><span>アンビエント カラーのスライダを右端まで移動させる．</span></p></li><li><p><span>拡散 を0にする．</span></p></li></ul></li><li><p><span>ポリゴン球にマテリアルを適用する．</span></p></li></ol><p><img src="images/bg_sphere_persp.png" referrerpolicy="no-referrer" alt="bg_sphere_persp"></p><h2 id='演習３水草を作って配置する'><span>演習３：水草を作って配置する．</span></h2><p><span>ペイントエフェクトを使って水草などの装飾物を配置する．</span></p><p><img src="images/painteffect_sakurei.png" referrerpolicy="no-referrer" alt="painteffect_sakurei"></p><h3 id='ペイントエフェクトの準備'><span>ペイントエフェクトの準備</span></h3><h4 id='ペイントエフェクト用シェルフをロードする'><span>ペイントエフェクト用シェルフをロードする．</span></h4><p><span>以下は一度だけ行えばよい．</span></p><ol start='' ><li><p><span>プリファレンスから，モジュール &gt; ペイント エフェクト にチェックを入れる．</span></p><ul><li><p><span>新たにチェックを入れた場合，再起動が必要</span></p></li></ul></li><li><p><span>シェルフのロードダイアログを開く．</span></p><ul><li><p><span>シェルフ左下の歯車アイコンをクリックし，シェルフのロード… をクリックする．</span></p></li></ul><p><img src="images/shelf_load.png" referrerpolicy="no-referrer" alt="shelf_load"></p></li><li><p><span>シェルフ「ペイントエフェクト」をロードする．</span></p><ul><li><p><span>shelf_PaintEffects.mel</span></p></li></ul><p><img src="images/shelf_load_paint_effect.png" referrerpolicy="no-referrer" alt="shelf_load_paint_effect"></p></li></ol><h3 id='ペイントエフェクトを地面上に行えるようにする'><span>ペイントエフェクトを地面上に行えるようにする．</span></h3><p><span>地面のポリゴンオブジェクトのメッシュに沿ってペイントを行えるようにする．</span></p><h4 id='地面のメッシュ上にペイント可能にする'><span>地面のメッシュ上にペイント可能にする．</span></h4><ol start='' ><li><p><span>地面ポリゴンオブジェクトを選択する．</span></p></li><li><p><span>シェルフ「ペイントエフェクト」から，ペイント可能にする アイコンをクリックする．</span><img src="images/shelf_paint_effect_enable.png" referrerpolicy="no-referrer" alt="shelf_paint_effect_enable"></p></li></ol><h3 id='ペイントエフェクトをペイントする-1'><span>ペイントエフェクトをペイントする．</span></h3><p><span>プリセットのブラシをエフェクトとしてシーン上に配置できる．</span>
 <span>アニメーションも自動的に作成される．</span></p><h4 id='ペイントエフェクトのブラシの種類を変更する'><span>ペイントエフェクトのブラシの種類を変更する．</span></h4><ol start='' ><li><p><span>シェルフ「ペイントエフェクト」から，ブラシを取得 アイコンをクリックする．</span></p><p><img src="images/shelf_paint_effect_brush.png" referrerpolicy="no-referrer" alt="shelf_paint_effect_brush"></p></li><li><p><span>[カテゴリ] &gt; 好きなアイコン をクリックする．</span></p><ul><li><p><span>Underwater</span></p></li><li><p><span>WaterMesh</span></p></li></ul></li></ol><h4 id='ペイントエフェクトをペイントする-2'><span>ペイントエフェクトをペイントする．</span></h4><p><strong><span>むやみに増やしすぎない</span></strong><span>こと．</span>
